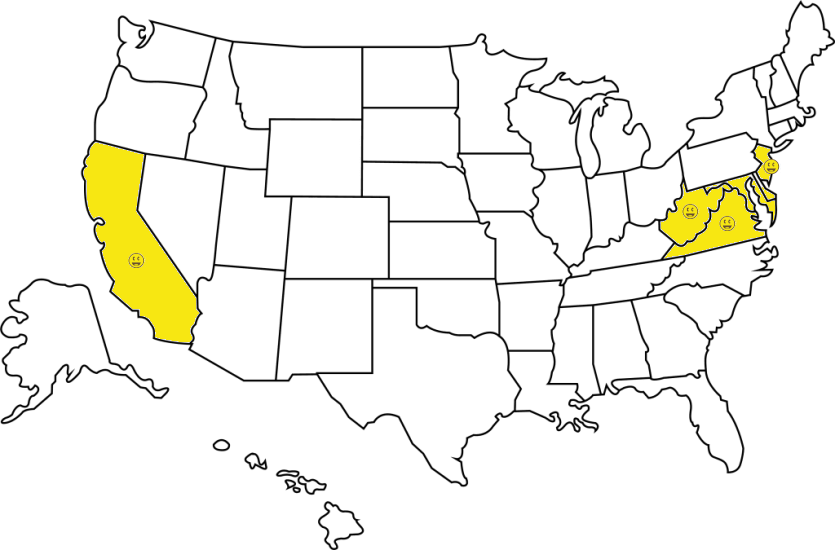
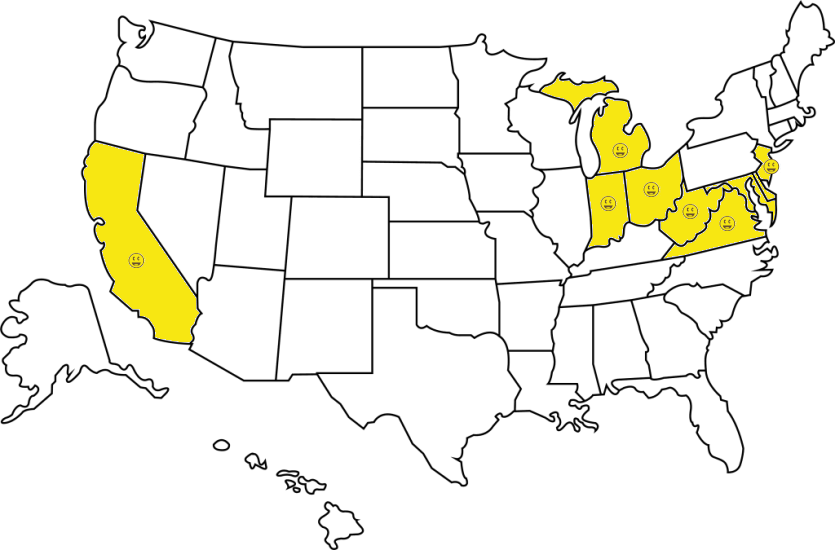
Add IN, MI, OH

Changed region(s): [[0.6539, 0.1236, 0.8407, 0.4636]]

diff --git a/caa.md b/caa.md
@@ -1,5 +1,10 @@
 # Cache Across America
 
+<p style="text-align: center">
+<img src="caches/caa/map.png" alt="Current status" title="Curent status">
+<br />
+</p>
+
 ### Log entries
 
 | State         | Date                                                        |
@@ -10,6 +15,9 @@
 | Maryland      | [2025-05-19](https://www.geocaching.com/live/log/GL1ECHQMW) |
 | Virginia      | [2025-05-20](https://www.geocaching.com/live/log/GL1ECRQBE) |
 | West Virginia | [2025-05-22](https://www.geocaching.com/live/log/GL1ED1NCN) |
+| Indiana       | [2025-07-23](https://www.geocaching.com/live/log/GL1EVJY7F) |
+| Michigan      | [2025-07-23](https://www.geocaching.com/live/log/GL1EVT11N) |
+| Ohio          | [2025-07-24](https://www.geocaching.com/live/log/GL1EVT2KX) |
 
 ### My journey
 
@@ -143,3 +151,44 @@ West Virginia
 
 Four CAA caches in five days--the year is off to a great start. Can it get even
 better though?
+
+Two months after returning from GeoWoodstock, I made plans to visit Indianapolis
+to attend the Post. music festival and see a band I had been trying to see
+perform live for ten years. After lots of route finding, I figured the best path
+was to fly into Chicago, visit Indiana Dunes NP, pick up the Indiana and
+Michigan CAA caches, and then stay with a relative in Ohio. And that's pretty
+much how the first day worked out. Indiana was a fun hide that stumped me for
+several minutes.
+
+<p style="text-align: center; font-style: italic">
+<img src="caches/caa/in.png" alt="Indiana" title="Indiana">
+<br />
+Indiana
+</p>
+
+Michigan was a little bit more of an adventure, since I chose to walk along the
+road to get from the parking waypoint to GZ. I had to hop a wire fence to get to
+the container. Then, staying on that side, I had to hop another wire fence to
+get back to my car. It was a very pretty sunset though.
+
+<p style="text-align: center; font-style: italic">
+<img src="caches/caa/mi.png" alt="Michigan" title="Michigan">
+<br />
+Michigan
+</p>
+
+I had initially planned to get Ohio and Kentucky the next day. However, I needed
+to catch up on sleep (my flight the previous day was very early) and dipping
+into Kentucky would have added 2.5 hours to the trip. I wanted to spend that
+time with relatives, and being on the road an extra 2.5 hours would put me in
+Indianapolis dangerously close to the start of the festival. I chose to skip
+Kentucky and drive straight to Indy after signing the Ohio log. I can neither
+confirm nor deny that my choice of shirt, celebrating four consecutive victories
+by the University of Michigan Wolverines football team over a university in the
+state of Ohio, was intentional.
+
+<p style="text-align: center; font-style: italic">
+<img src="caches/caa/oh.png" alt="Ohio" title="Ohio">
+<br />
+Ohio
+</p>
